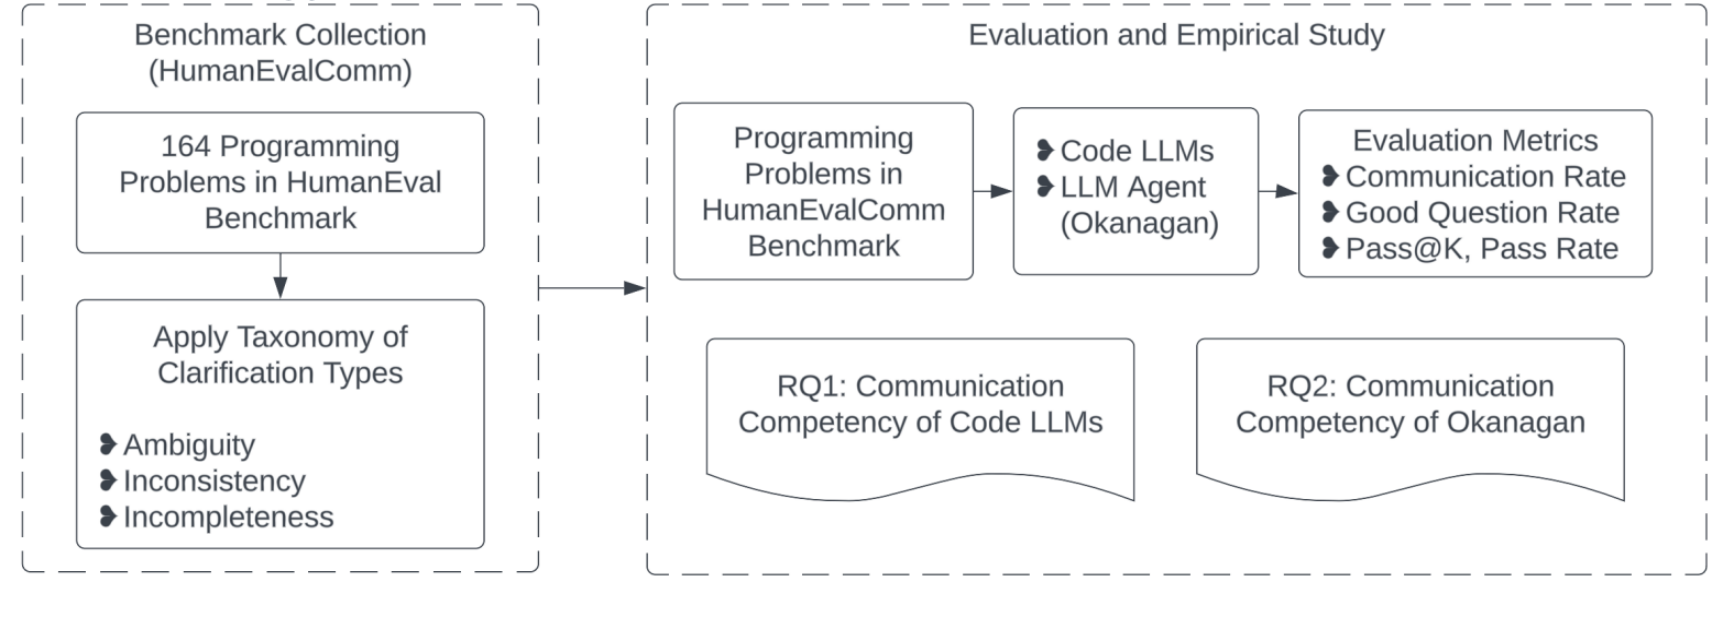
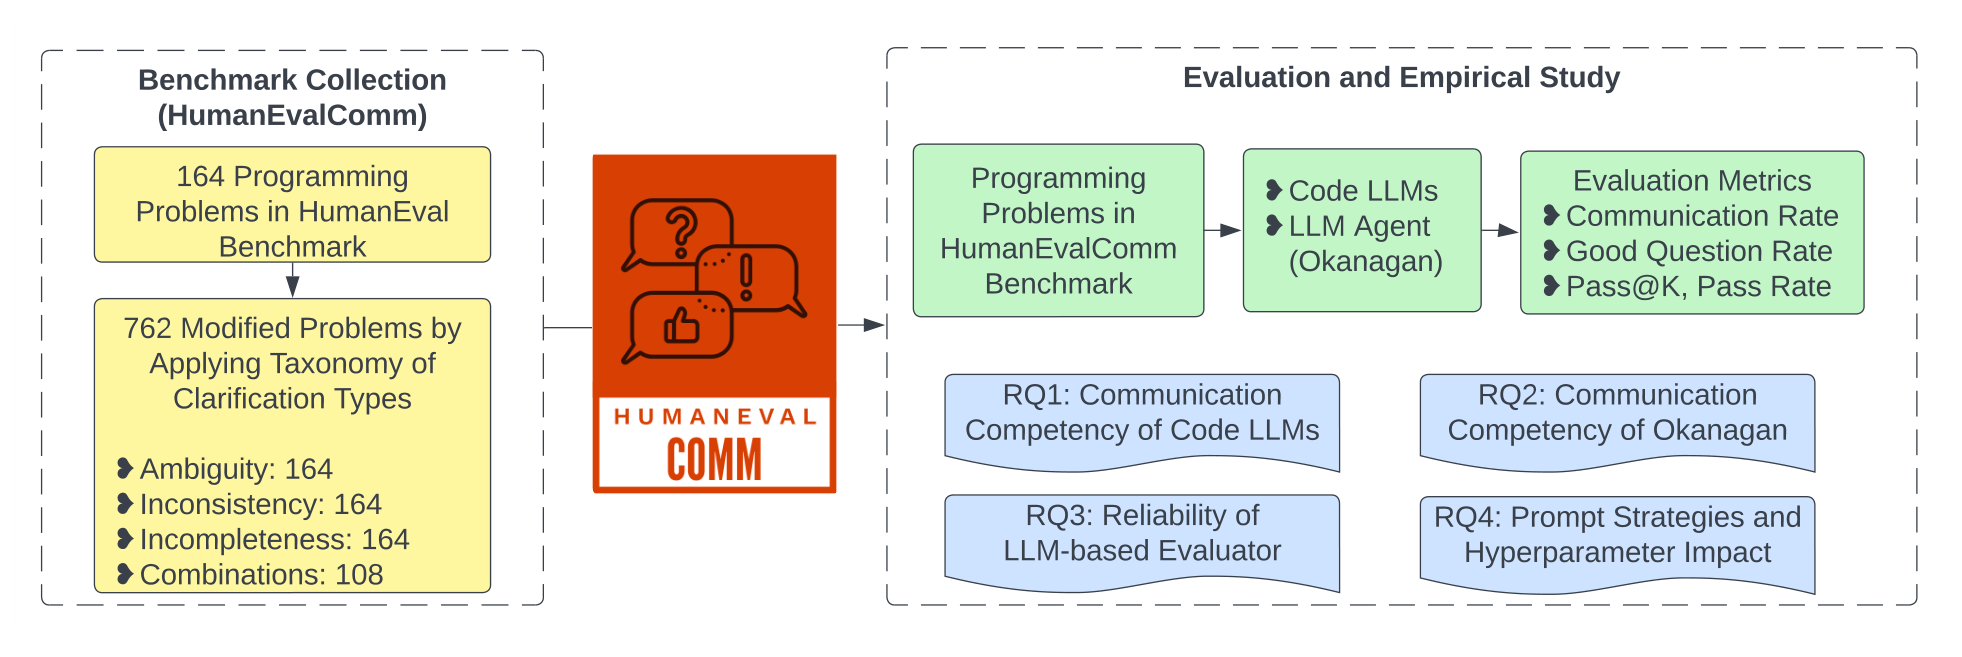
Use color Fig 1 from paper; add Fig 6 random-removal finding
- Replace the poster's monochrome methodology diagram with the paper's
  color Fig 1 (includes the 762 modified-problem statistics)
- New section built on Fig 6: with half the description deleted, 95% of
  responses are still code; at 90% deleted, 46% still are. Contrasts the
  correctness curve falling immediately against questions starting late.

Claude-Session: https://claude.ai/code/session_01LxWrbji8FennUe1gCSiJHo

diff --git a/_posts/2026-08-12-when-your-request-is-unclear-does-ai-ask.md b/_posts/2026-08-12-when-your-request-is-unclear-does-ai-ask.md
@@ -47,7 +47,7 @@ So we built a benchmark. We took HumanEval — a standard set of 164 programming
 - **Inconsistency** — parts of the description contradict each other
 - **Incompleteness** — something essential is simply missing
 
-We also combined them in pairs, so each problem yields several broken variants. We called the result **HumanEvalComm**. It inverts the usual test: on this benchmark, writing code immediately is often the *wrong* response. The right response is a question.
+We also combined them in pairs, which yielded 762 modified problem descriptions in total. We called the result **HumanEvalComm**. It inverts the usual test: on this benchmark, writing code immediately is often the *wrong* response. The right response is a question.
 
 <figure class="post-figure">
   <a href="{{ '/assets/img/blog/hec-methodology.png' | relative_url }}" target="_blank" rel="noopener">
@@ -72,6 +72,25 @@ The silence has a price. Given the flawed descriptions, ChatGPT's accuracy fell 
 </figure>
 
 There's a quieter finding worth pausing on. Models were most likely to ask when information was outright *missing*, and least likely when the description was subtly ambiguous or self-contradictory. That's exactly backwards from what's useful. A missing input is the failure mode a developer is most likely to catch unaided. A description that reads smoothly while meaning two different things is the one that slips through review — and it's precisely where the models stay quiet.
+
+## How much can you delete before it notices?
+
+The result that stayed with us came from a simple stress test. Instead of carefully rewriting a description, we just deleted parts of it at random — 10% of the words, then 20%, and so on — and watched for the point at which the model would stop and ask what was going on.
+
+It took far longer than expected.
+
+**With half the description deleted, 95% of responses were still code.** Not a question, not a flag — a confident solution to a problem whose statement had been cut in half. Even after removing **90%** of the description, leaving barely a fragment of a sentence, the models still wrote code 46% of the time.
+
+<figure class="post-figure">
+  <a href="{{ '/assets/img/blog/hec-removal.png' | relative_url }}" target="_blank" rel="noopener">
+    <img src="{{ '/assets/img/blog/hec-removal.png' | relative_url }}" alt="Line chart showing communication rate stays near zero until about half the problem description is removed, rising to only 54% at 90% removed, while test pass rate declines steadily.">
+  </a>
+  <figcaption>The blue line is how often the model asks a question; it stays near zero until half the description is gone. The red line is code correctness, falling the whole way. For most of that decline, the model never says anything is wrong. <em>(click to enlarge)</em></figcaption>
+</figure>
+
+Look at the gap between the two lines. Correctness starts falling immediately — the model is already producing worse answers by the time 20% is missing. But the questions don't start until much later, if at all. For most of the range, the model is quietly getting things wrong and telling you nothing.
+
+That gap is the whole problem in one picture.
 
 ## Why this matters beyond programming
 
